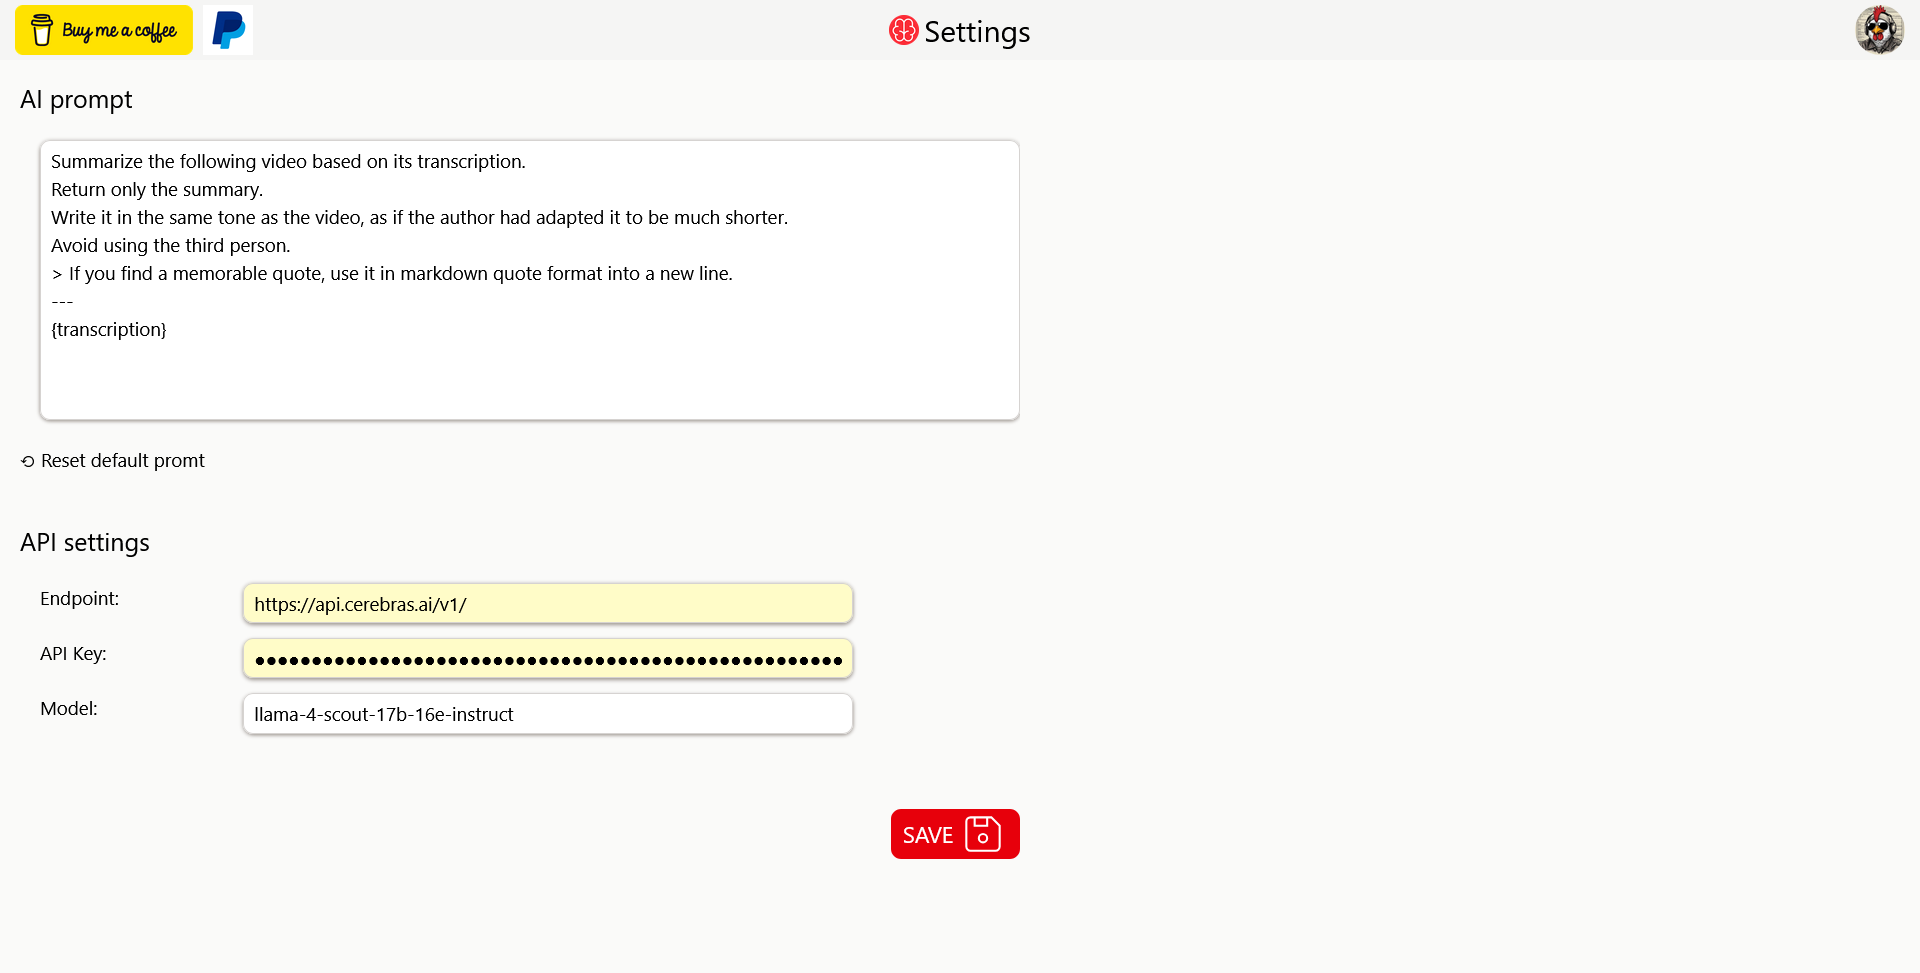
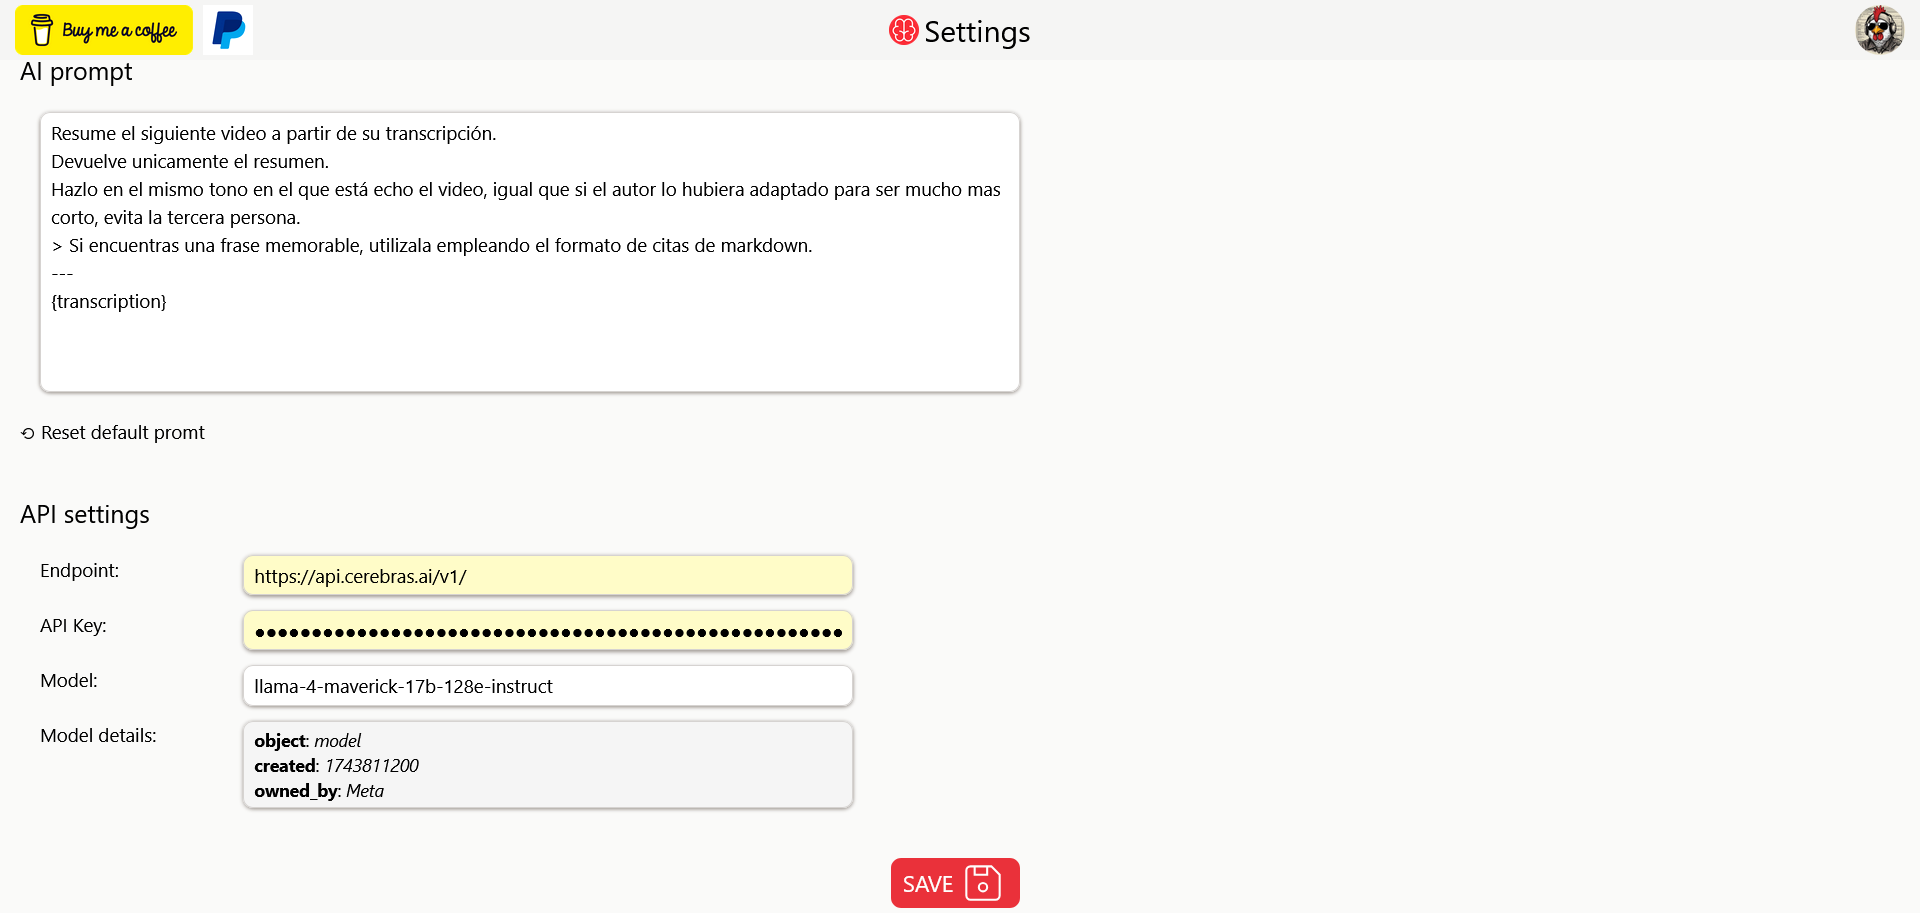
readme

diff --git a/README.md b/README.md
@@ -22,13 +22,18 @@ Here you can customize the prompt and introduce your API provider credentials.
 
 - ![3](assets/readme/3.png)
 
+After introducing credentials, if your provider supports it, you should see available models as model input options, also some extra model details will be shown.
+
 # API providers
 
 To archieve this is mandatory to setup a OpenAI compatible API provider, you can use a paid one if you are subscribed or you can check this [list of free LLM resources](https://github.com/cheahjs/free-llm-api-resources)
 
 ## Tested services
 
+This extension is still in beta. It has been tested on the latest versions of Firefox and Chrome. It should work on other browsers as well, but I can't guarantee this.
+
 This is a list of providers that have been tested with this extension, all of them have a free tier.
+It should work with any openai compatible provider anyways.
 
 ### Openrouter
 
